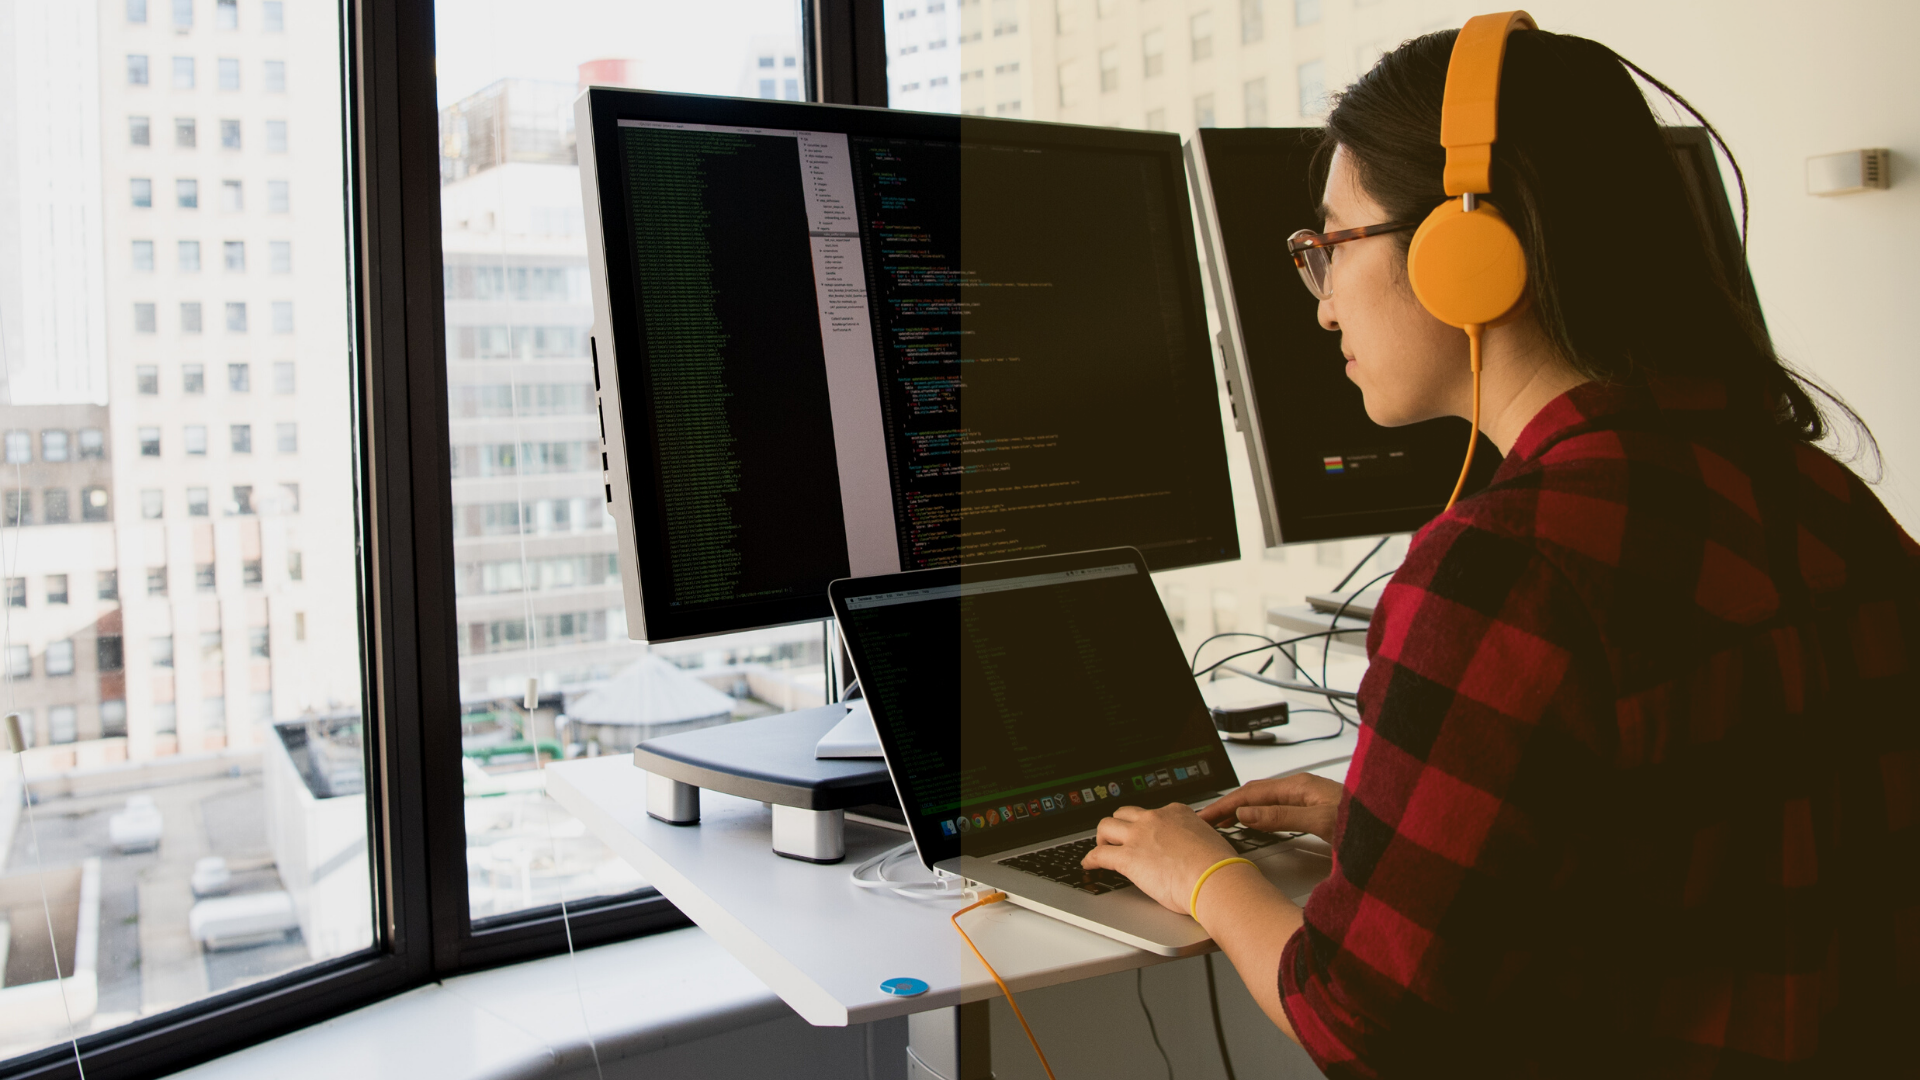
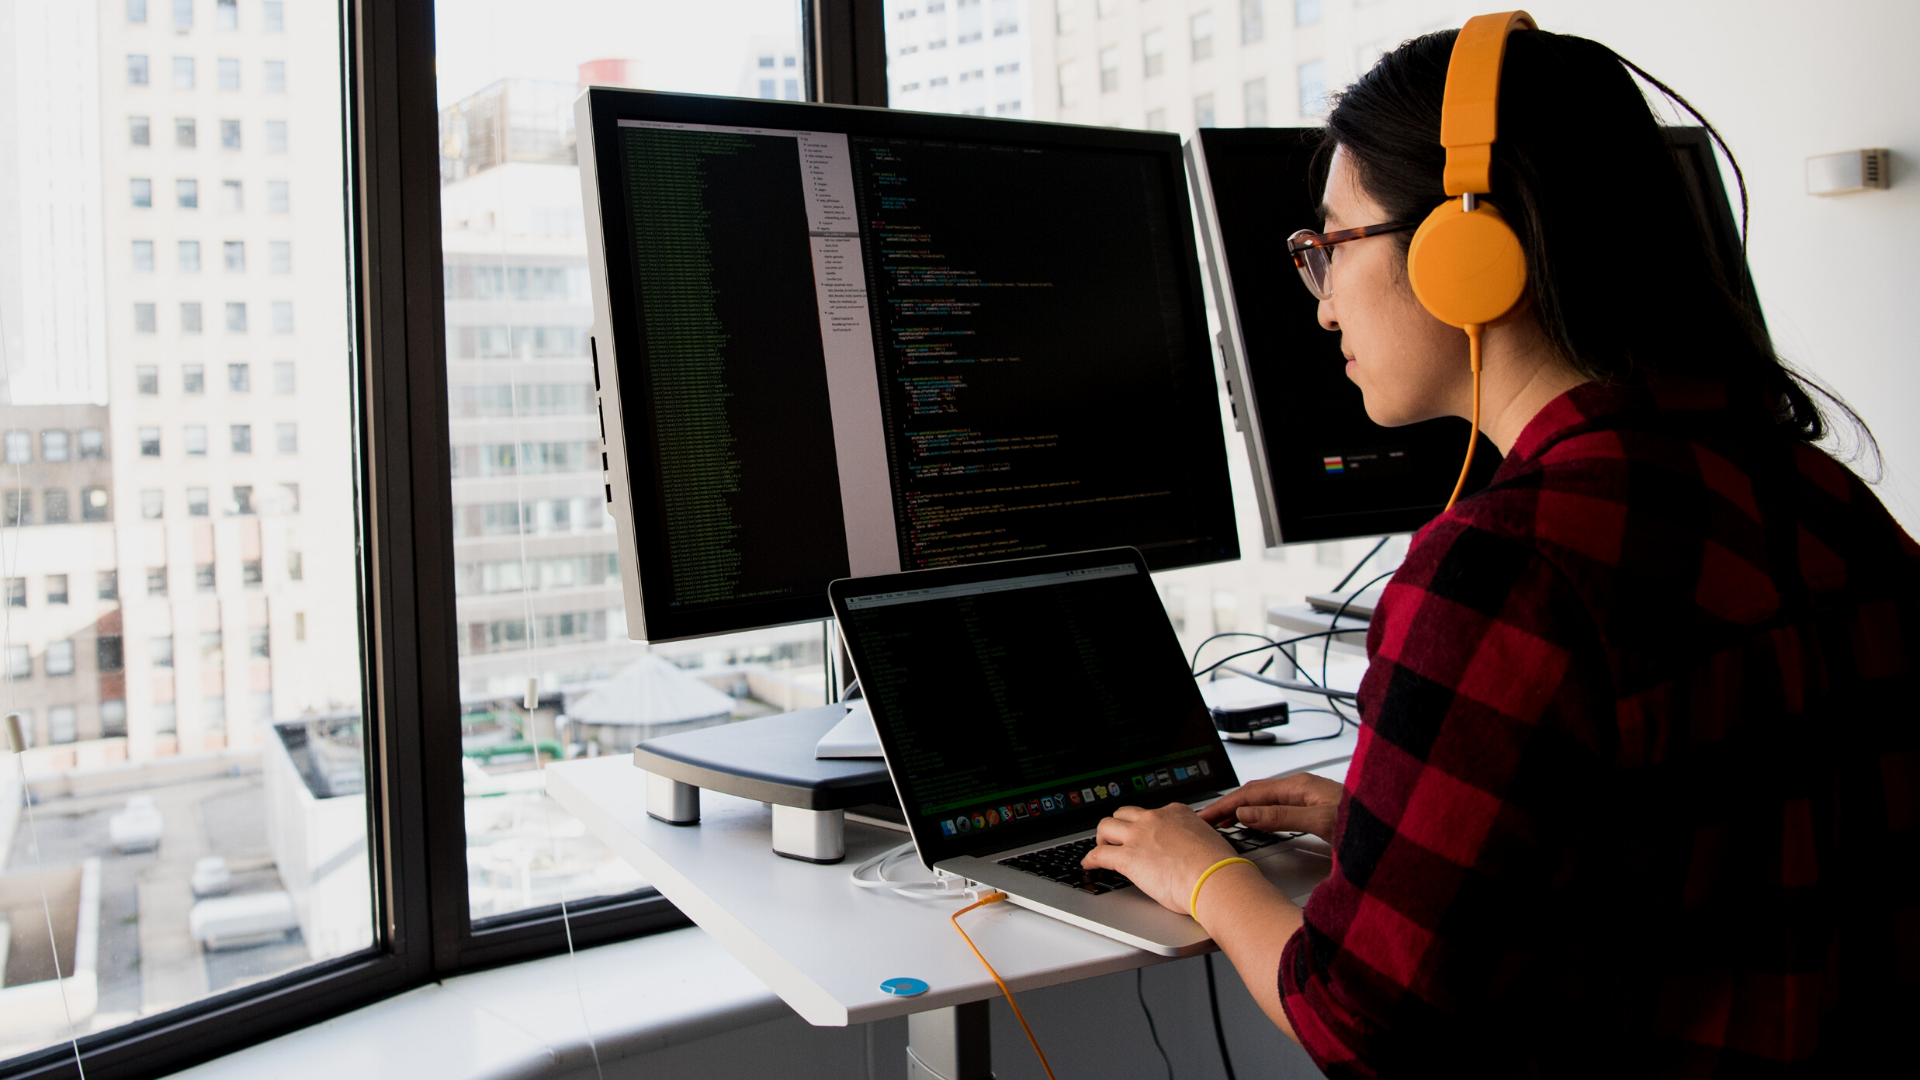
Ajustes de tamanho (vw, vh e %); Atuaização de imagens para novo CSS, primeira versão de responsividade para telas 995px

diff --git a/style.css b/style.css
@@ -10,6 +10,7 @@ Paleta de cores:
 	Amarelo:  #dba838;
 :::::::::::::::::::::::::::::::::::::::::::::::::::::::::::::::::::::: */ 
 
+
 /* PADRÕES SEM IDENTIFICADOR VÁLIDOS E/OU VÁLIDOS TODO O ESCOPO */
 
 * { 
@@ -24,14 +25,26 @@ i {
 
 body {
 	background-color: #F1F1F1;
-	background-size: 100%;
+	background-size: cover; /*fazendo com que se adeque ao tamanho */
+	height: 100vh;
+	width: 100vw;
 	background-repeat: no-repeat;
+	position: fixed;
 }
-
 
 /*:::::::::::::::::::::::::::::::::::::::::::::::::::::::::::::::::::::*/
 
-/*OPÇÕES DE BODY POR IMAGEM*/
+/*EDIÇÃO DE BACKGROUND */
+
+#confImage { /* Bloco opaco para ajudar na edição da imagem de fundo */
+	background-color: #DBA838;
+	opacity: 0.2;
+	width: 50vw;
+	height: 100vh;
+	margin-left: 50vw;
+	position: absolute;
+	z-index: 10;
+}
 
 #bodySigaa{
 	background-image: url(img/bgsigaa.png);
@@ -60,13 +73,14 @@ body {
 
 /*:::::::::::::::::::::::::::::::::::::::::::::::::::::::::::::::::::::*/
 
+
 /* BARRA DE NAVEGAÇÃO */
                 
 #navigationLane{ /*Faixa Azul superior externa*/
 	background-color: #141F49;
 	position: absolute;
 	z-index: 20;
-	height: 75px;
+	height: 75px; 
 	width: 83%;
 	border-bottom-right-radius: 25px;
 	border-bottom-left-radius: 	25px;
@@ -75,19 +89,18 @@ body {
 }
 
 .NavigationBar { /*Faixa interna com links de navegação */
-	height: 30px;
+	height: 45%;
 	width: 80%;
 	margin-left: 10%;
-	margin-top: 27px;
+	margin-top: 25px;
 	display: flex;
 	justify-content: space-between;
 	text-decoration: none;
 	color: 	#F1F1F1;
 	font-weight:  900px;
-	font-size: 	20px;
+	font-size: 	129%; /*20px*/
 	cursor: pointer;
 }
-
 
 .ItemNavigationBar {
 	padding-top: 3px;
@@ -103,7 +116,12 @@ body {
 	font-weight:  bold;
 	padding-top: 3px;
 }
+
+
 /*:::::::::::::::::::::::::::::::::::::::::::::::::::::::::::::::::::::*/
+
+/*:::::::::::::::::::::::::::::::::::::::::::::::::::::::::::::::::::::*/
+
 
 /*ÁREA E FORM. DE LOGIN*/
 
@@ -111,10 +129,8 @@ body {
 	/*background-color: #F1F1F1;
 	opacity: 0.85;*/
 	background-color: rgba(255,255,255,.85);
-	width: 50%;
-	height: 100%;
-	min-height: 100%;
-	max-height: 100%;
+	width: 50vw;
+	height: 100vh;
 	position: absolute;
 	z-index: 10;
 }
@@ -127,14 +143,14 @@ body {
 
 #loginBox h1 { /*Título principal do formulário*/
 	color: #141F49;
-	font-size: 40px;
+	font-size: 259%; /*40px*/
 	margin-top: 10%;
 	margin-bottom: 4%; /*adaptação aos monitores*/
 }
 
 #loginBox h2 { /*Subtítulo do formulário*/
 	color: #11386B;
-	font-size: 20px;
+	font-size: 129%; /*20px*/
 	font-weight: initial;
 	font-style: italic;
 	margin-bottom: 4%; /*adaptação aos monitores*/
@@ -146,7 +162,7 @@ body {
 	background-color: transparent;
 	border: transparent;
 	color: #11386B;
-	font-size: 15px;
+	font-size: 97%; /*15px*/
 	width: 	94%;
 }
 
@@ -163,6 +179,8 @@ body {
 
 #formLogin1{
 	margin-top: 30%; /*adaptar aos monitores*/
+	max-height: 100%;
+	min-height: 100%;
 }
 
 /*Botões Formulário:::::::::::::::::::::::::::::::::::*/
@@ -174,7 +192,7 @@ body {
 	padding: 15px;
 	border-radius: 50px;
 	border: transparent;
-	font-size: 20px;
+	font-size: 129%; /*20px*/
 	opacity: 0px;
 	cursor: pointer;
 	margin-top: 7%;
@@ -188,7 +206,7 @@ body {
 	padding: 8px;
 	border-radius: 50px;
 	border: transparent;
-	font-size: 17px;
+	font-size: 110%; /*17px*/
 	opacity: 0px;
 	cursor: pointer;
 	margin-top: 7%;
@@ -198,7 +216,7 @@ body {
 	color: #11386B;
 	width: 65%;
 	text-align: right;
-	font-size: 17px;
+	font-size: 110%; /*17px*/
 	margin-top: 7%;
 }
 
@@ -210,7 +228,9 @@ body {
 }
 /*:::::::::::::::::::::::::::::::::::*/
 
+
 /*:::::::::::::::::::::::::::::::::::::::::::::::::::::::::::::::::::::*/
+
 
 /* MENU POPUP CADASTRO */
 
@@ -267,24 +287,20 @@ body {
 	border: 3px solid #141F49;
 }
 
-
 #btnPopUp1 { /*Cadastro Professores e Funcionários*/
 	background-image: url(img/btnpopup1.png);
-	
 }
 
 #btnPopUp2 { /*Cadastro Alunos (botão do meio)*/
 	background-image: url(img/btnpopup2.png);
 	margin-left: 20px;
 	margin-right: 20px;
-	
 }
 
 #btnPopUp3 { /*Cadastro familiares*/
 	background-image: url(img/btnpopup3.png);
 
 }
-
 
 #menuPopUpLine1 button{ /*Botão fechar menu PopUp*/
 	width: 40px;
@@ -298,14 +314,65 @@ body {
 }
 /*:::::::::::::::::::::::::::::::::::*/
 
+
 /*:::::::::::::::::::::::::::::::::::::::::::::::::::::::::::::::::::::*/
 
 #footerOne {
 	color: #11386B;
-	font-size: 13px;
+	font-size: 80%; /*13x*/
 	text-align: center;
 	font-style: italic;
 	display: block;
 	margin-top: 60px;
 }
 
+
+/*:::::::::::::::::::::::::::::::::::::::::::::::::::::::::::::::::::::*/
+
+
+/*FORMATAÇÃO RESPONSIVA PARA TABLETS A PARTIR DE 995px de largura*/
+
+@media only screen and (max-device-width: 995px) {
+
+	#confImage { /* Bloco opaco para ajudar na edição da imagem de fundo */
+		display: none;
+	}
+
+	/*ÁREA E FORM. DE LOGIN*/
+
+	#loginFrame { /*Área da tela reservada para criação do formulário de login */
+		background-color: rgba(255,255,255,.85);
+		width: 100vw;
+		height: 100vh;
+		max-width: 100vw;
+		min-width: 100vw;
+		max-height: 100vh;
+		min-height: 100vh;
+		position: absolute;
+		z-index: 15;
+	}
+
+	#formLogin1{ /*formulário completo*/
+		margin-top: 21%; 
+	}
+	
+	.NavigationBar { /*Faixa interna com links de navegação */
+		width: 90%;
+		margin-left: 5%;
+		
+	}
+	
+}/*MEDIA 870*/
+
+
+/*:::::::::::::::::::::::::::::::::::::::::::::::::::::::::::::::::::::*/
+
+/*FORMATAÇÃO RESPONSIVA PARA MOBILE A PARTIR DE 640px de largura*/
+
+@media only screen and (max-device-width: 640px) {
+
+
+}/*MEDIA 670*/
+
+
+/*:::::::::::::::::::::::::::::::::::::::::::::::::::::::::::::::::::::*/

diff --git a/index.html b/index.html
@@ -56,9 +56,9 @@
 			</form>
 
 		</div> <!-- loginBox -->
-		<br> <br> <br>
-
 	</div>
+
+	<div id="confImage"> </div>
 
 	<div id="menuPopUp" style="display:none">
 		<div id="menuPopUpLine1"> <button onClick="closePopUp()">&times;</button> </div>
